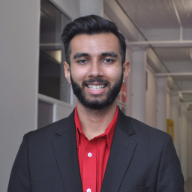
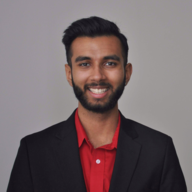
Updated centerpiece picture

diff --git a/components/hero.js b/components/hero.js
@@ -8,7 +8,10 @@ export default function Hero() {
             <Navbar />
             <Section id="hero" divStyle={{ height: "100vh", justifyContent: "center" }} sectionStyle={{ padding: "0" }}>
 
-                <img src="sourish.webp" id="me-pic" alt="Picture of Sourish" style={{ borderRadius: "50%", width: "clamp(325px, 30vw, 600px)" }} />
+                <img src="sourish.webp" 
+                     id="sourish-pic" 
+                     alt="Picture of Sourish" 
+                     style={{ borderRadius: "50%", width: "clamp(325px, 30vw, 600px)" }} />
 
                 <div>
 

diff --git a/components/head.js b/components/head.js
@@ -27,6 +27,8 @@ export default function SkHead({ title, children }) {
             <link rel="icon" type="image/png" sizes="32x32" href="/favicon-32x32.png" />
             <link rel="icon" type="image/png" sizes="16x16" href="/favicon-16x16.png" />
             <link rel="manifest" href="/site.webmanifest" />
+            <meta name="msapplication-TileColor" content="#da532c" />
+            <meta name="theme-color" content="#ffffff" />
             {children}
         </Head>
     )

diff --git a/styles/globals.css b/styles/globals.css
@@ -106,7 +106,7 @@ a:visited {
         flex-direction: row;
     }
 
-    #me-pic {
+    #sourish-pic {
         height: 75vh;
         margin-right: 2px;
     }
